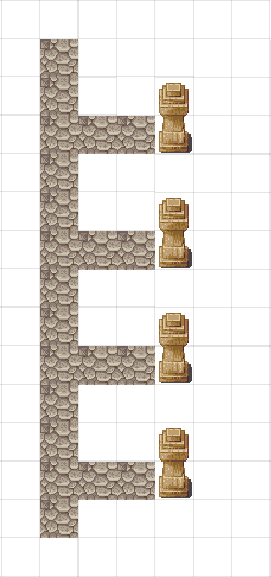
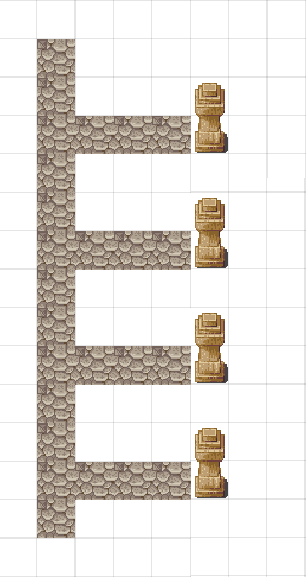
implemented connection between core and view, fixed demo map

Changed region(s): [[0.0, 0.0, 1.0, 1.0], [0.9742, 0.0, 1.0, 0.312], [0.8856, 0.4367, 0.9742, 0.4679]]

diff --git a/games/postmeister/game.py b/games/postmeister/game.py
@@ -1,4 +1,5 @@
 import random
+from TschunkView import *
 
 # Command Values
 # 1 ... Left
@@ -8,22 +9,40 @@ import random
 # 6 ... Start
 
 class game(object):
-    
+
     def __init__(self):
-        pass
-    
+        self.mapView = TschunkView(TschunkMap1())
+        self.direction = 0
+
     def perform_step(self, commands_graph, current_tile, previous_tile):
         neighbors = commands_graph.neighbors(current_tile)
         if previous_tile in neighbors:
             neighbors.remove(previous_tile)
-            
+
         command = commands_graph.valueForPosition(current_tile)
-        
+
         print command
-        
-        
+
+        if command == 1: # rotate left
+            directions = [(0, -1), (1, 0), (0, 1), (-1, 0)]
+            self.direction = (self.direction + 1) % 4
+            self.mapView.setDirection(directions[self.direction])
+            print 'rotated left'
+        elif command == 3: # streight
+            self.mapView.move()
+            self.mapView.move()
+            self.mapView.move()
+            print 'went straight'
+        elif command == 4:
+            print 'did nothing'
+        elif command == 5:
+            self.mapView.drop()
+            print 'dropped'
+
         if len(neighbors) > 0 :
             r_neighbor = random.choice(neighbors)
-            if commands_graph.valueForPosition(r_neighbor) != 5:
+            if commands_graph.valueForPosition(r_neighbor) != 7:
                 return r_neighbor
         return (-1,-1)
+
+

diff --git a/games/postmeister/map1.py b/games/postmeister/map1.py
@@ -2,13 +2,13 @@
 class TschunkMap1(): #(TschunkMap):
 
     def __init__(self):
-        self.img = 'img/map1.png'
+        self.img = 'games/postmeister/img/map1.png'
         self.figure = 'todo'
 
         self.rows = 15
-        self.cols = 7
+        self.cols = 8
 
         self.origin_x = 1
-        self.origin_y = 13
+        self.origin_y = 14
 
         self.initial_direction = (0, -1)

diff --git a/run_tschunk.py b/run_tschunk.py
@@ -1,10 +1,17 @@
 from tschunk import tschunk
 from games.postmeister import game
+import threading
+import pyglet
 
 # modulename = "sample"
 # game_module = __import__("games." + modulename, fromlist=['blah'])
 
 game = game.game()
 
+
 t = tschunk.tschunk(game)
-t.run()
+
+thread = threading.Thread(target=t.run)
+thread.setDaemon(True)
+thread.start()
+pyglet.app.run()

diff --git a/tschunk/vision.py b/tschunk/vision.py
@@ -1,4 +1,11 @@
 
+# Command Values
+# 1 ... Left
+# 3 ... Straight
+# 4 ... Non Operation
+# 5 ... Drop
+# 6 ... Start
+
 class vision(object):
     def get_commands_array (self):
-        return [[6, 3, 1, 3], [0, 0, 0, 5], [0, 0, 0, 0], [0, 0, 0, 0]]
+        return [[3, 1, 3, 5], [4, 0, 0, 1], [4, 1, 3, 1], [0, 0, 0, 0]]
